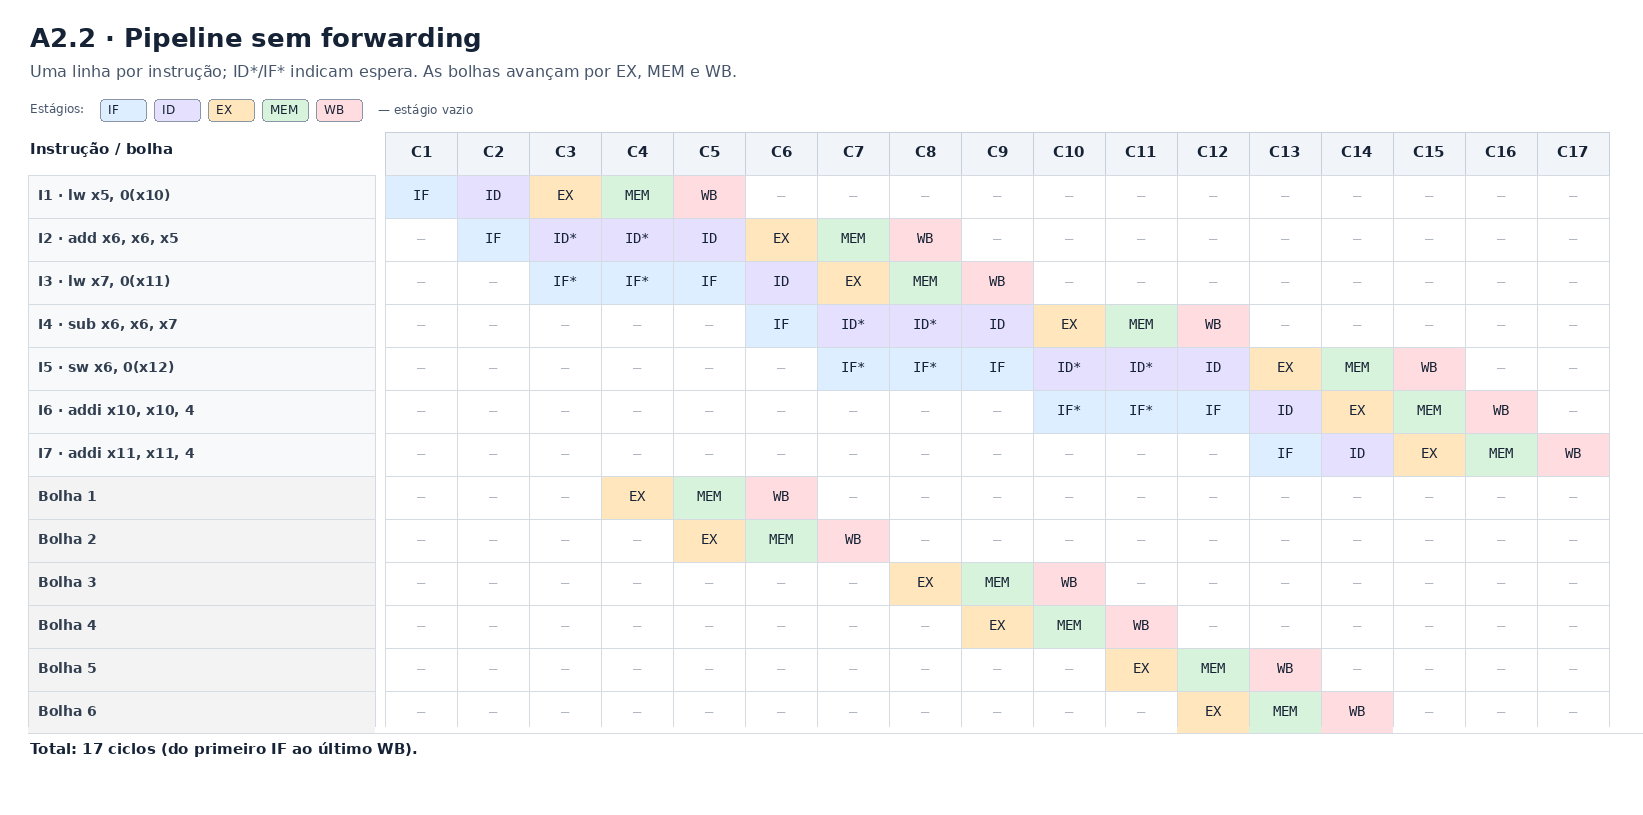
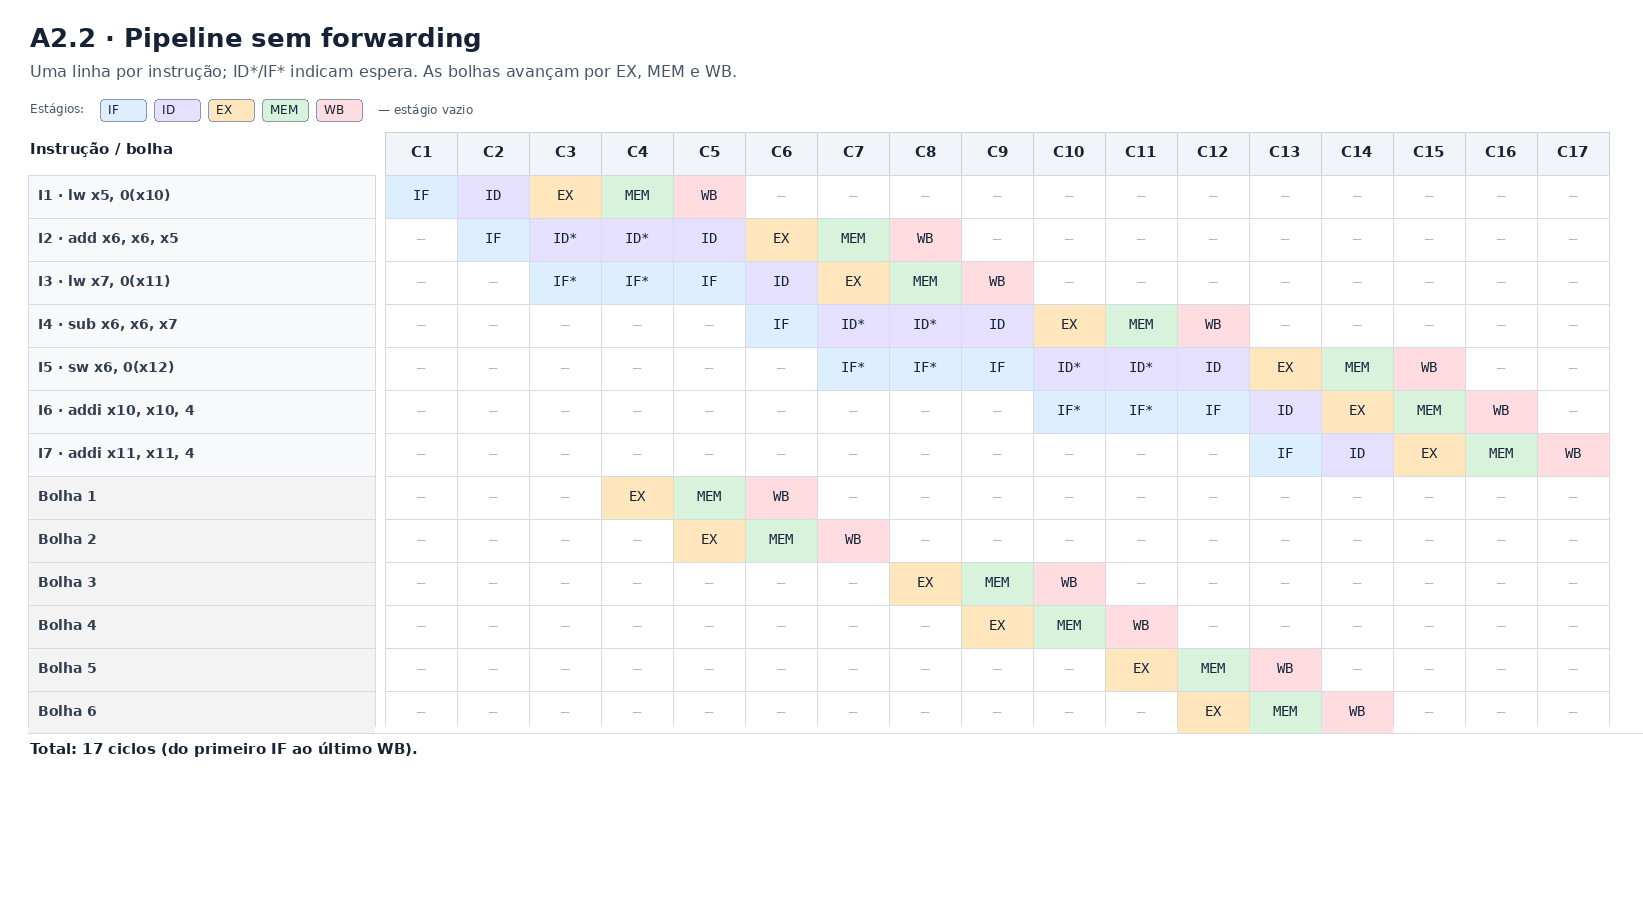
docs: add terminal screenshots and finalize assignment

diff --git a/ponderada/codigo/common.py b/ponderada/codigo/common.py
@@ -1,5 +1,9 @@
 #!/usr/bin/env python3
-"""Funções compartilhadas para as três simulações da questão A4."""
+"""Funções compartilhadas de métricas, argumentos e relatórios das versões A4.
+
+Importado por versao1.py, versao2.py e versao3.py; execute uma dessas versões
+da raiz do repositório, por exemplo: python3 ponderada/codigo/versao2.py.
+"""
 
 import argparse
 

diff --git a/ponderada/codigo/versao3.py b/ponderada/codigo/versao3.py
@@ -1,5 +1,8 @@
 #!/usr/bin/env python3
-"""A4 — versão 3: ordem trocada que pode causar deadlock sem barreira."""
+"""A4 v3: ordem trocada que pode causar deadlock quando o buffer enche.
+
+Execute da raiz: python3 ponderada/codigo/versao3.py [--samples N --runs R].
+"""
 
 import threading
 import time

diff --git a/ponderada/codigo/versao1.py b/ponderada/codigo/versao1.py
@@ -1,5 +1,8 @@
 #!/usr/bin/env python3
-"""A4 — versão 1: buffer circular com contador compartilhado sem mutex."""
+"""A4 v1: demonstra corrida no buffer circular sem mutex.
+
+Execute da raiz: python3 ponderada/codigo/versao1.py [--samples N --runs R].
+"""
 
 import threading
 import time

diff --git a/ponderada/codigo/versao2.py b/ponderada/codigo/versao2.py
@@ -1,5 +1,8 @@
 #!/usr/bin/env python3
-"""A4 — versão 2: buffer circular protegido por vazio, cheio e mutex."""
+"""A4 v2: buffer circular correto com vazio, cheio e mutex.
+
+Execute da raiz: python3 ponderada/codigo/versao2.py [--samples N --runs R].
+"""
 
 import threading
 import time

diff --git a/ponderada/ponderada-tato.md b/ponderada/ponderada-tato.md
@@ -126,9 +126,9 @@ Conta: T_novo ≈ 2,275 ms
 
 > Cole o print das caches do seu computador (Linux: lscpu; macOS: sysctl -a | grep cachesize; Windows: aba Caches do CPU-Z). A sua L1 é dividida em instruções e dados? Então o seu computador é Von Neumann ou Harvard? Justifique.
 
-**Registro da execução:** rodei `lscpu` sem filtro em Linux (Ubuntu 24.04), no equipamento identificado como `Notebook-0536`, com processador Intel Core i5-1345U de 13ª geração. A saída integral está em [`lscpu-completo.txt`](img/lscpu-completo.txt). Ela informa L1d = 352 KiB (10 instâncias), L1i = 576 KiB (10 instâncias), L2 = 6,5 MiB (4 instâncias) e L3 = 12 MiB (1 instância). Os totais de L1 somam as 10 instâncias dos núcleos (2 de desempenho e 8 de eficiência). O comando não reporta uma linha de fabricante do hipervisor; por isso, não concluo apenas por essa saída que a execução foi nativa ou em máquina virtual.
+**Registro da execução:** rodei `lscpu` sem filtro em Linux (Ubuntu 24.04), no equipamento identificado como `Notebook-0536`, com processador Intel Core i5-1345U de 13ª geração. A captura real do terminal aparece abaixo; a saída integral está em [`lscpu-completo.txt`](img/lscpu-completo.txt). Ela informa L1d = 352 KiB (10 instâncias), L1i = 576 KiB (10 instâncias), L2 = 6,5 MiB (4 instâncias) e L3 = 12 MiB (1 instância). Os totais de L1 somam as 10 instâncias dos núcleos (2 de desempenho e 8 de eficiência). O comando não reporta uma linha de fabricante do hipervisor; por isso, não concluo apenas por essa saída que a execução foi nativa ou em máquina virtual.
 
-**Evidência visual pendente:** o arquivo de texto registra a saída real, mas não é uma captura de tela do terminal. A imagem anterior era uma renderização da saída e foi removida para não apresentá-la como screenshot real.
+![Captura real do terminal com o comando lscpu e os tamanhos das caches.](img/lscpu.png)
 
 **A L1 é dividida?** Sim. Há caches L1 separadas para dados (L1d) e instruções (L1i).
 
@@ -298,7 +298,13 @@ Usei `N = 3 + (2 mod 5) = 5`. Rodei as versões em Python 3.12.3, Ubuntu 24.04, 
 
 Na v1, o `sleep(0)` em cada operação válida expôs a corrida: além das amostras perdidas, o consumidor fez milhares de leituras vazias. Nesta rodada, houve 2.089–2.341 perdas e 2.216–2.680 leituras vazias; os números variam entre execuções. Na v2, as três execuções consumiram todos os IDs na ordem exata, sem perda, retenção, duplicata ou leitura vazia. Na v3, o deadlock foi detectado em todas as rodadas; no encerramento destas execuções, 1 amostra foi consumida e 4 ficaram retidas no buffer. As outras 19.995 não foram geradas. As quatro retidas **não são amostras perdidas**. Uma corrida entre os timeouts pode fazer outra execução terminar com 0 consumidas e 5 retidas.
 
-**Saídas de terminal registradas:** os arquivos `a4-versao1-stdout.txt`, `a4-versao2-stdout.txt` e `a4-versao3-stdout.txt` guardam a saída textual integral dos comandos executados. Eles documentam a execução, mas não substituem capturas de tela reais do terminal.
+**Capturas das execuções:** as imagens abaixo mostram três execuções adicionais de cada versão; os números podem diferir da tabela porque variam entre execuções. As saídas textuais das rodadas originalmente registradas estão em `a4-versao1-stdout.txt`, `a4-versao2-stdout.txt` e `a4-versao3-stdout.txt`.
+
+![Captura real de uma execução da versão 1 da A4.](img/a4-versao1.png)
+
+![Captura real de uma execução da versão 2 da A4.](img/a4-versao2.png)
+
+![Captura real de uma execução da versão 3 da A4.](img/a4-versao3.png)
 
 ### A4.2 Região crítica e corrida na versão 1
 
@@ -394,8 +400,10 @@ O ciclo `i2c → thread_sensor → log → thread_log → ble → thread_config 
 
 O melhor argumento para lançar agora é a baixa frequência estimada por dispositivo e a recuperação pelo watchdog. A taxa de um travamento a cada 10.000 horas corresponde, com uso de 8 horas por dia, a um intervalo médio de cerca de **3,4 anos por pulseira**; sob uma taxa constante e aleatória, o risco de ao menos um travamento por usuário em um ano é `1 − e^(−2.920/10.000) ≈` **25%**. Para 2.000 pulseiras usadas 8 horas por dia, a frota soma 16.000 horas de uso por dia: são **1,6 travamentos esperados por dia** (cerca de 80% de chance de ao menos um, se os eventos forem independentes e aleatórios). Cada ocorrência deixa uma pessoa sem vibração por cerca de **4 segundos**, ou 400 intervalos de amostragem, mesmo com o pulso longo de aviso.
 
-Assumo a Plataforma V/Linux usada na A3–A5. Na A1.2, o pior caso estimado da V é **4,482 ms**, com apenas **0,518 ms** de margem até o limite; isso vale durante o processamento normal e não evita o deadlock. A A4 demonstra que a ordem incorreta dos semáforos pode congelar o fluxo, mas não mede a taxa de ocorrência em campo. A V permite atualização OTA, porém a atualização posterior não protege as pessoas durante o período anterior à correção. Se a produção fosse na H, a correção exigiria atendimento com cabo às unidades em campo.
+Assumo a Plataforma V/Linux usada na A3–A5. Na A1.2, o pior caso estimado da V é **4,482 ms**, com apenas **0,518 ms** de margem até o limite. Essa folga restringe quanto tempo pode ser acrescentado por mitigação, comunicação ou contenção de recursos no caminho de cada amostra; o cálculo normal, por si só, não evita o deadlock. A A4 demonstra que a ordem incorreta dos semáforos pode congelar o fluxo, mas não mede a taxa de ocorrência em campo. A V permite atualização OTA, porém a atualização posterior não protege as pessoas durante o período anterior à correção. Se a produção fosse na H, a correção exigiria atendimento com cabo às unidades em campo.
+
+Como referência de escala, o custo de hardware para 2.000 unidades é de **R$ 140 mil na V** (2.000 × R$ 70) ou **R$ 44 mil na H sem DSP** (2.000 × R$ 22). Esses valores ajudam a dimensionar o lote, mas não substituem o valor do edital, que não foi informado.
 
 Adiar também tem custo de segurança: até o lançamento, os usuários ficam sem essa ferramenta de orientação. Lançar agora, por outro lado, transfere a eles o risco conhecido de ficar sem vibração e o risco de uma correção apressada introduzir novos defeitos. O BLE recebe comandos externos; o adiamento permite validar entradas malformadas e o isolamento desse processo antes da exposição em campo.
 
-Eu mudaria o plano financeiro se o edital confirmasse por escrito uma extensão de dois meses, preservando o financiamento e permitindo entregar somente após testes de concorrência, recuperação e processamento dentro de 5 ms. Sem essa extensão, mantenho a recomendação de adiar; não considero um watchdog abaixo de 1 segundo suficiente, pois ainda deixaria cerca de 100 amostras sem vibração.
+O melhor contra-argumento é lançar com watchdog e corrigir por OTA depois. Em 60 dias, a frota teria cerca de **96 travamentos esperados** (1,6 × 60), cada um com aproximadamente quatro segundos sem vibração; o OTA reduz o tempo até a correção, mas não elimina essas ocorrências nesse intervalo. Eu mudaria o plano financeiro se o edital confirmasse por escrito uma extensão de dois meses, preservando o financiamento e permitindo entregar somente após testes de concorrência, recuperação e processamento dentro de 5 ms. Sem essa extensão, mantenho a recomendação de adiar; não considero um watchdog abaixo de 1 segundo suficiente, pois ainda deixaria cerca de 100 amostras sem vibração.

diff --git a/README.md b/README.md
@@ -18,4 +18,4 @@ Os parâmetros podem ser ajustados com `--samples` e `--runs`. As versões 2 e 3
 
 Os resultados variam com o escalonador do sistema operacional, a carga da máquina e a versão do Python. Os resultados registrados no Markdown foram obtidos em Python 3.12.3, Ubuntu 24.04, Linux x86_64, Intel Core i5-1345U. `ponderada/codigo/common.py` concentra a impressão dos resultados e o cálculo de perdas, amostras retidas, duplicatas e integridade FIFO; cada versão continua executável pelo comando acima.
 
-As saídas integrais em texto estão em `ponderada/img/a4-versao1-stdout.txt`, `ponderada/img/a4-versao2-stdout.txt` e `ponderada/img/a4-versao3-stdout.txt`; o `lscpu` sem filtro está em `ponderada/img/lscpu-completo.txt`. Esses arquivos preservam a saída real dos comandos, mas não substituem as capturas de tela de terminal exigidas na entrega.
+As capturas reais estão em `ponderada/img/lscpu.png` e `ponderada/img/a4-versao1.png` a `ponderada/img/a4-versao3.png`. As saídas integrais em texto estão em `ponderada/img/a4-versao1-stdout.txt`, `ponderada/img/a4-versao2-stdout.txt` e `ponderada/img/a4-versao3-stdout.txt`; a saída sem filtro do `lscpu` está em `ponderada/img/lscpu-completo.txt`.
